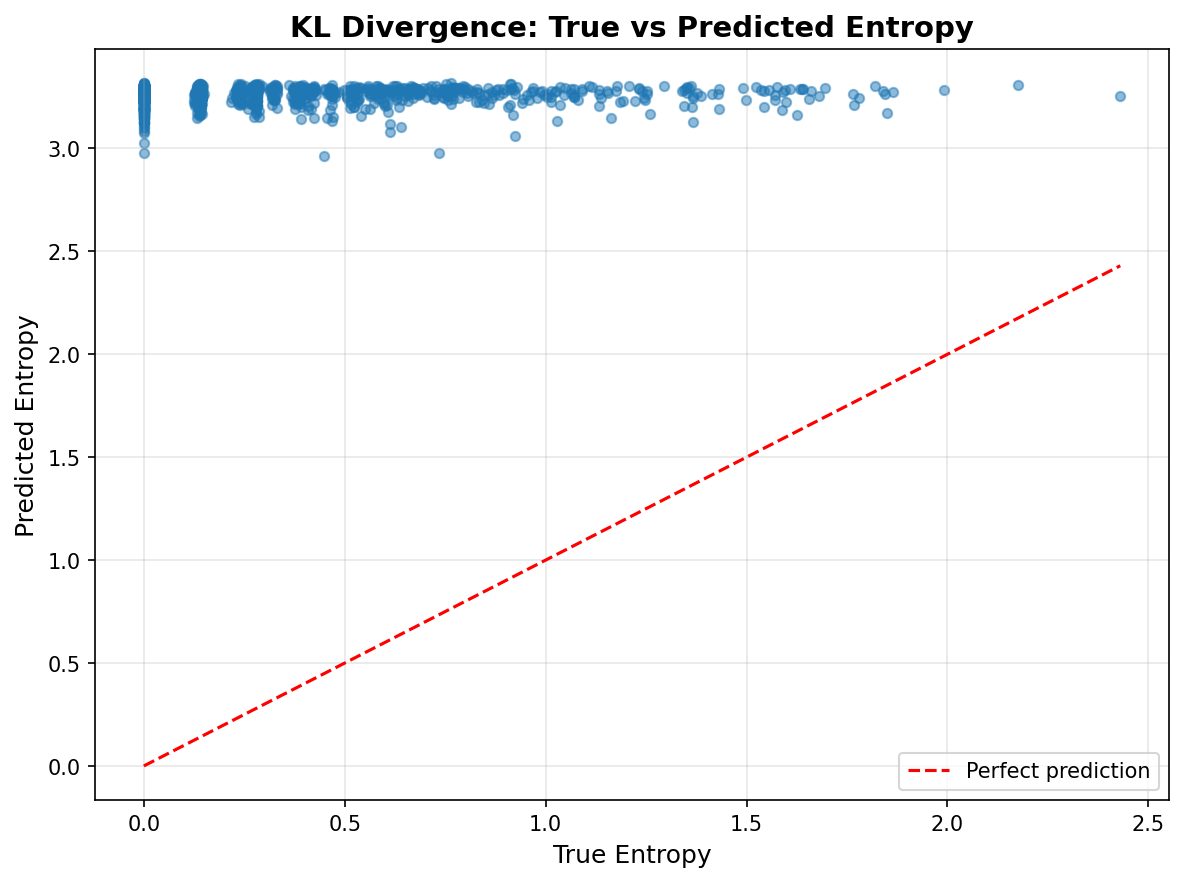
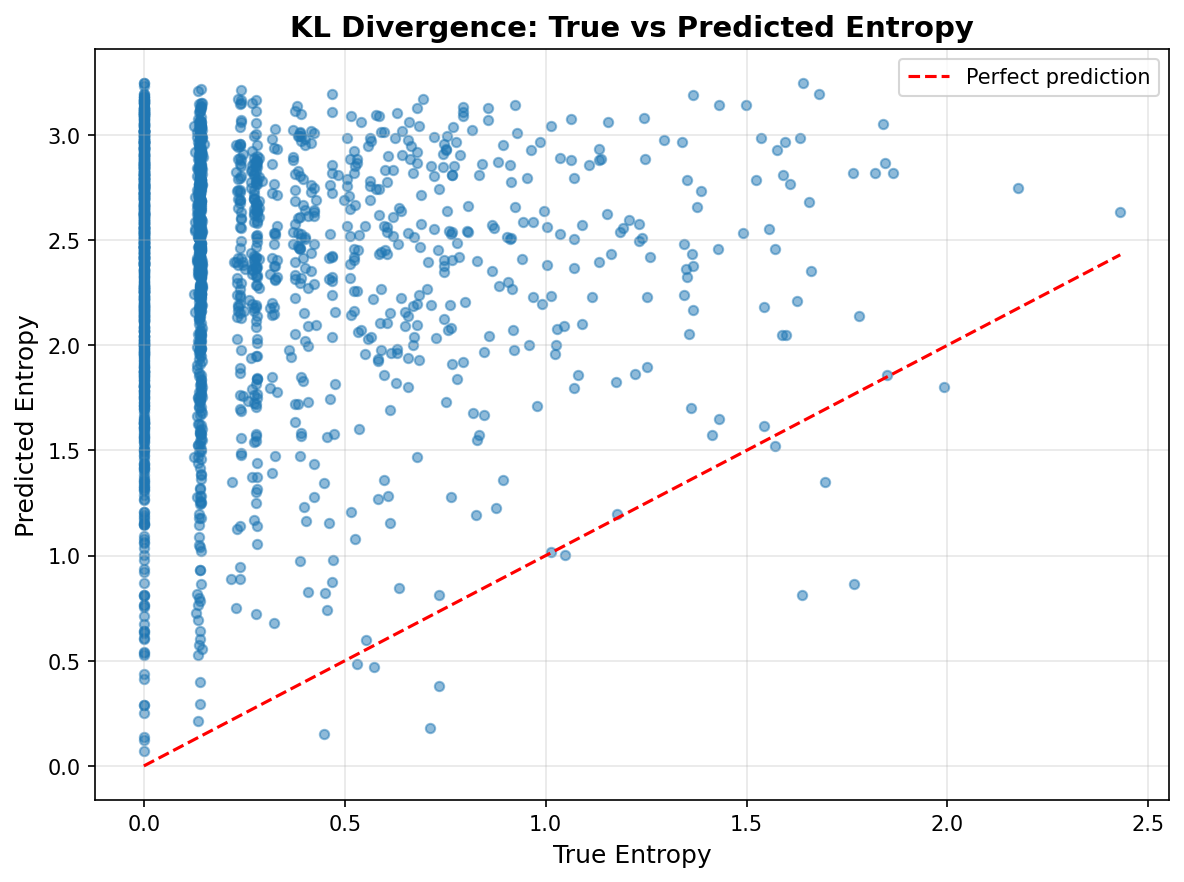
Fix training: KL loss direction, hyperparameters (LR=1e-5, patience=50), data augmentation

diff --git a/losses.py b/losses.py
@@ -12,30 +12,34 @@ import torch.nn.functional as F
 
 class KLDivergenceLoss(nn.Module):
     """
-    KL Divergence Loss: Measures how different predicted distribution q is from true distribution p
-    Formula: KL(p||q) = Σ_y p(y) * log(p(y) / q(y))
+    KL Divergence Loss: KL(pred||target) = Σ_y q(y) * log(q(y) / p(y))
+    where q=pred, p=target
     """
     def __init__(self):
         super(KLDivergenceLoss, self).__init__()
-        self.kld = nn.KLDivLoss(reduction='batchmean', log_target=False)
     
     def forward(self, pred_logits, target_dist):
         """
         Args:
             pred_logits: Raw logits from model (batch_size, 10)
-            target_dist: True soft label distribution (batch_size, 10) - should sum to 1
+            target_dist: True soft label distribution (batch_size, 10)
         Returns:
             KL divergence loss
         """
-        # Convert logits to log probabilities (required by KLDivLoss)
-        log_pred = F.log_softmax(pred_logits, dim=1)
+        # Convert logits to probabilities
+        pred_probs = F.softmax(pred_logits, dim=1)
         
-        # Ensure target sums to 1 (safety check)
+        # Normalize target distribution
         target_dist = target_dist / (target_dist.sum(dim=1, keepdim=True) + 1e-8)
         
-        loss = self.kld(log_pred, target_dist)
-        return loss
-
+        # Compute KL(pred || target) = Σ pred * log(pred/target)
+        # More numerically stable than using log_softmax directly
+        kl_loss = torch.sum(
+            pred_probs * (torch.log(pred_probs + 1e-8) - torch.log(target_dist + 1e-8)),
+            dim=1
+        )
+        
+        return kl_loss.mean()
 
 class JensenShannonDivergenceLoss(nn.Module):
     """
@@ -73,53 +77,28 @@ class JensenShannonDivergenceLoss(nn.Module):
 
 
 class CustomCompositeEntropy(nn.Module):
-    """
-    Custom Composite Loss: KL Divergence + Entropy Regularization
-    
-    Intuition: 
-      - KL term ensures predicted distribution matches true distribution
-      - Entropy regularization penalizes mismatch between true and predicted entropy
-      - High-disagreement images (high H(p)) should produce high-entropy predictions
-      - Low-disagreement images (low H(p)) should produce sharp predictions
-    
-    Formula: Loss = λ₁ * KL(p||q) + λ₂ * |H(p) - H(q)|
-    """
     def __init__(self, lambda1=1.0, lambda2=0.5):
         super(CustomCompositeEntropy, self).__init__()
         self.lambda1 = lambda1
         self.lambda2 = lambda2
-        self.kld = nn.KLDivLoss(reduction='batchmean', log_target=False)
     
     def _entropy(self, probs):
-        """
-        Compute Shannon entropy: H(p) = -Σ p(y) * log₂(p(y))
-        Args:
-            probs: Probability distribution (batch_size, 10)
-        Returns:
-            Entropy values (batch_size,)
-        """
-        # Use log2 for consistency with information theory
         return -torch.sum(probs * torch.log2(probs + 1e-8), dim=1)
     
     def forward(self, pred_logits, target_dist):
-        """
-        Args:
-            pred_logits: Raw logits from model (batch_size, 10)
-            target_dist: True soft label distribution (batch_size, 10)
-        Returns:
-            Composite loss value
-        """
         # Convert to probabilities
         pred_probs = F.softmax(pred_logits, dim=1)
         target_dist = target_dist / (target_dist.sum(dim=1, keepdim=True) + 1e-8)
         
-        # KL term
-        log_pred = F.log_softmax(pred_logits, dim=1)
-        kl_loss = self.kld(log_pred, target_dist)
+        # KL term - use CORRECT approach
+        kl_loss = torch.sum(
+            pred_probs * (torch.log(pred_probs + 1e-8) - torch.log(target_dist + 1e-8)),
+            dim=1
+        ).mean()
         
         # Entropy regularization term
-        true_entropy = self._entropy(target_dist)          # H(p): true entropy
-        pred_entropy = self._entropy(pred_probs)           # H(q): predicted entropy
+        true_entropy = self._entropy(target_dist)
+        pred_entropy = self._entropy(pred_probs)
         entropy_error = torch.abs(true_entropy - pred_entropy).mean()
         
         # Combined loss

diff --git a/finetune.py b/finetune.py
@@ -51,9 +51,9 @@ torch.cuda.manual_seed_all(SEED)
 # ══════════════════════════════════════════════════════════════════════════
 NUM_EPOCHS      = 200
 BATCH_SIZE      = 32
-LEARNING_RATE   = 1e-4
+LEARNING_RATE   = 1e-5      # CHANGED: was 1e-4 (too high for fine-tuning)
 WEIGHT_DECAY    = 1e-5
-PATIENCE        = 10           # early stopping patience
+PATIENCE        = 50        # CHANGED: was 10 (too aggressive early stopping)
 BACKBONE_PATH   = "pretrained_backbone.pth"
 NUM_WORKERS     = 0            # Set to 0 for macOS to avoid multiprocessing issues
 
@@ -125,12 +125,19 @@ print(f"  Val:   {X_val.shape}, {y_val.shape}")
 print(f"  Test:  {X_test.shape}, {y_test.shape}")
 
 # Create datasets with transforms
+train_transform = transforms.Compose([
+    transforms.ToTensor(),
+    transforms.RandomHorizontalFlip(p=0.5),     # NEW: augmentation
+    transforms.RandomCrop(32, padding=4),        # NEW: augmentation
+    transforms.Normalize(CIFAR10_MEAN, CIFAR10_STD),
+])
+
 val_transform = transforms.Compose([
     transforms.ToTensor(),
     transforms.Normalize(CIFAR10_MEAN, CIFAR10_STD),
 ])
 
-train_dataset = CIFAR10HDataset(X_train, y_train, transform=val_transform)
+train_dataset = CIFAR10HDataset(X_train, y_train, transform=train_transform)   # changed to train_transform
 val_dataset = CIFAR10HDataset(X_val, y_val, transform=val_transform)
 test_dataset = CIFAR10HDataset(X_test, y_test, transform=val_transform)
 
